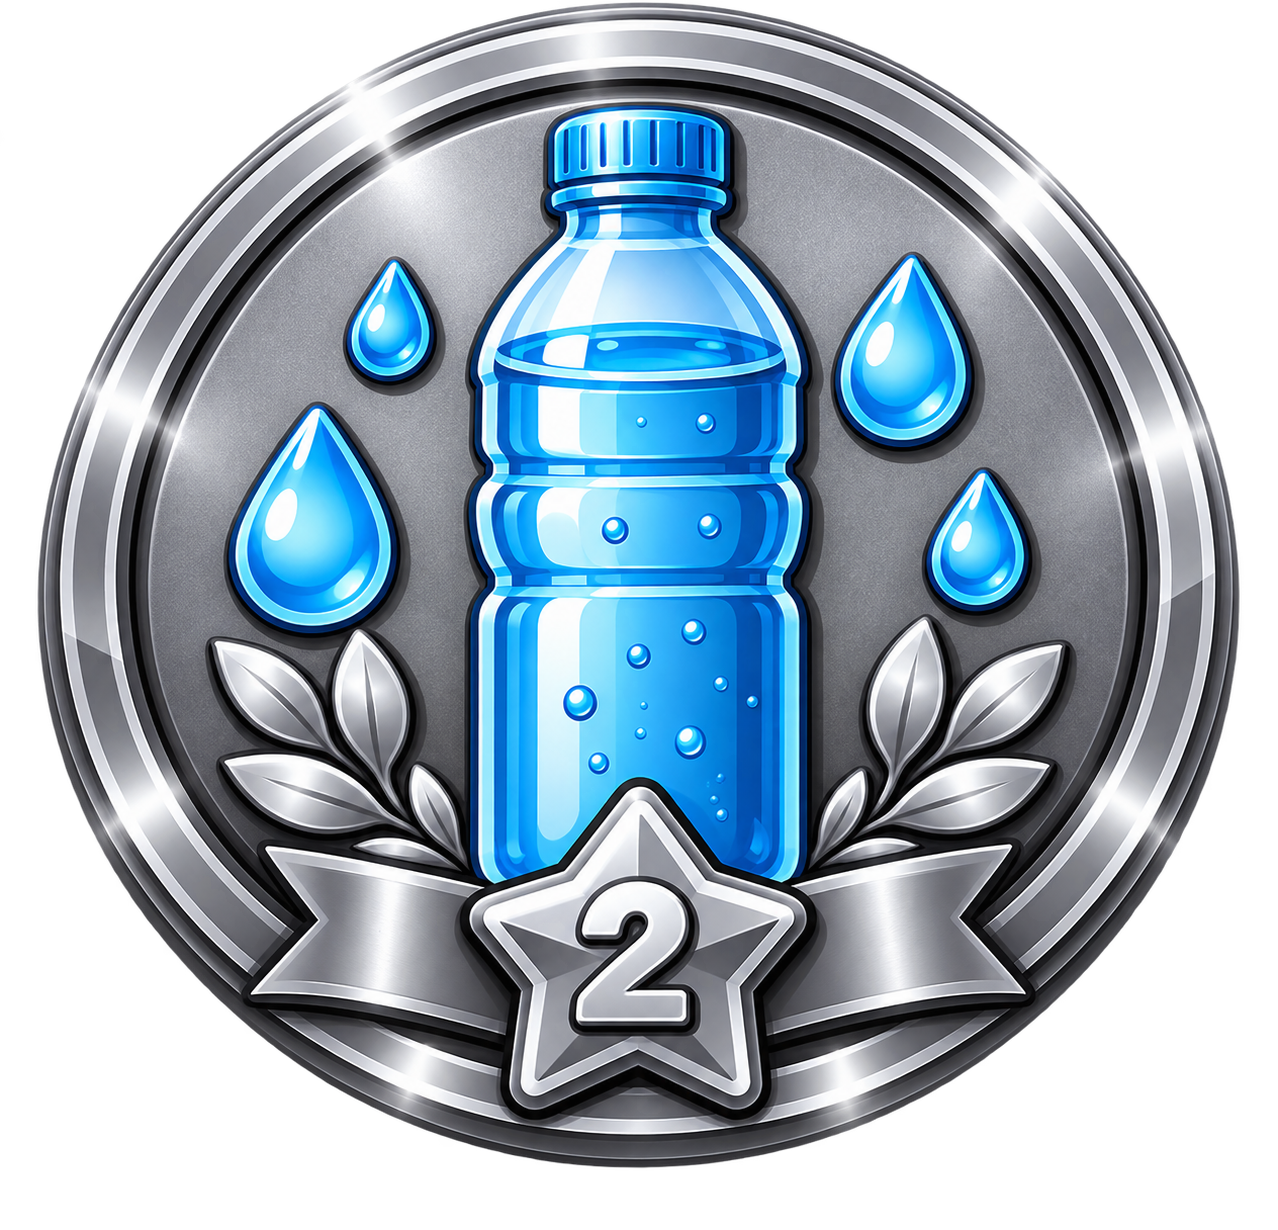
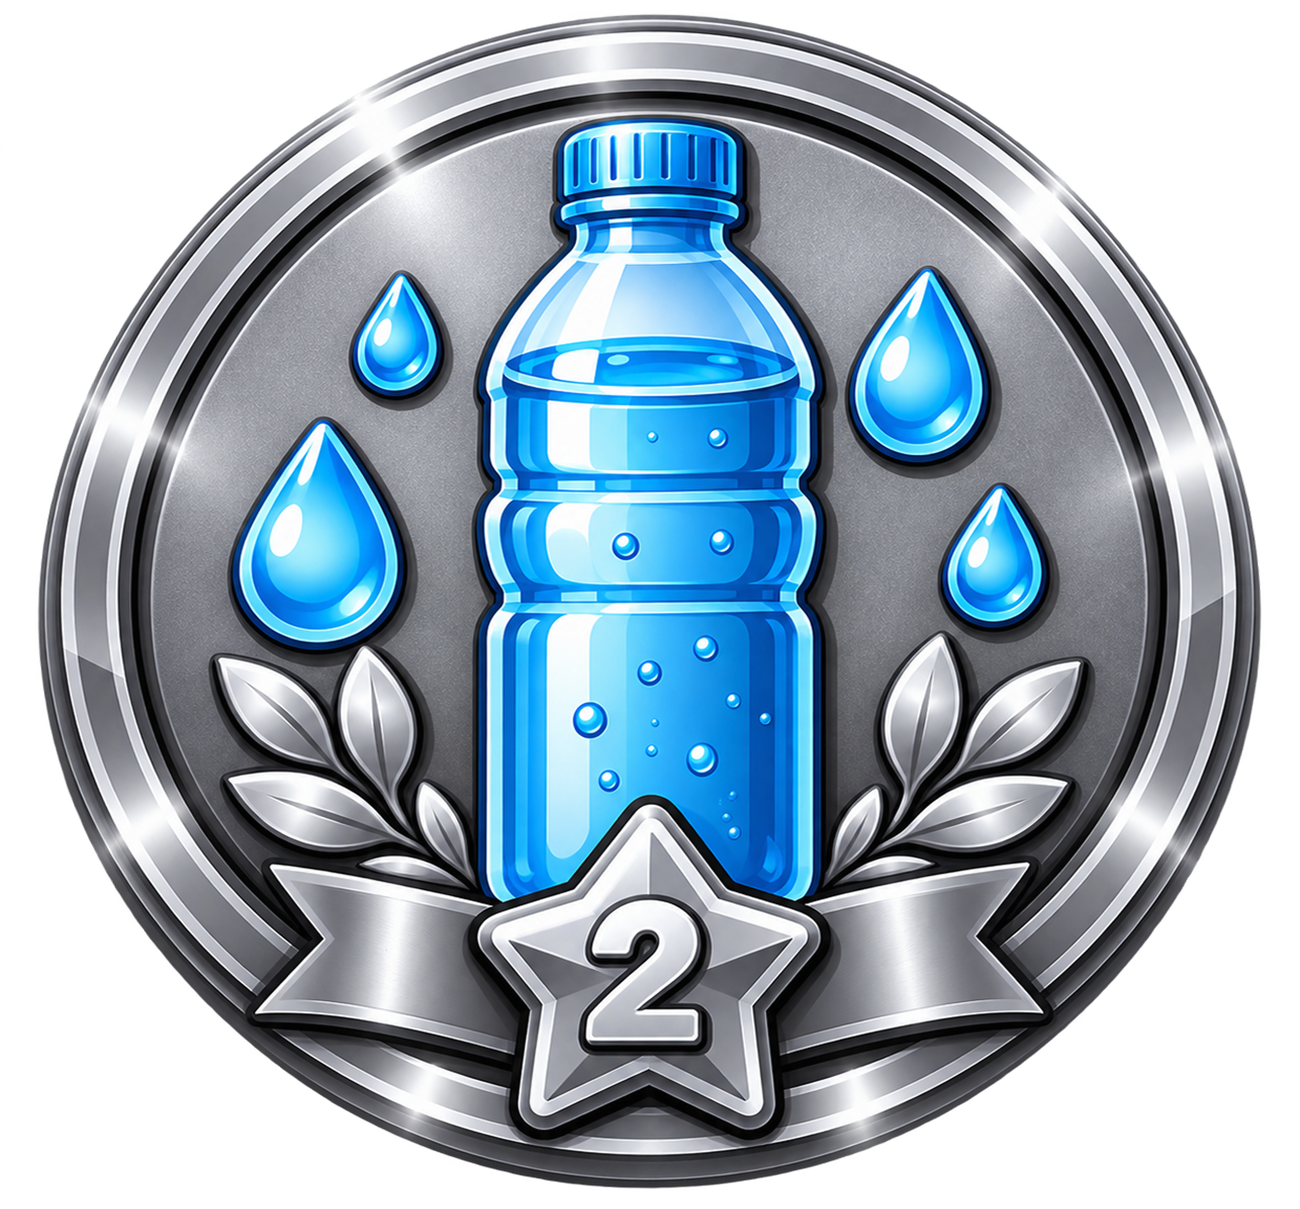
Agrego las imagenes con las dimensiones modificadas para que sean todas iguales

diff --git a/src/app/pages/mi-perfil-componente/mi-perfil-componente.html b/src/app/pages/mi-perfil-componente/mi-perfil-componente.html
@@ -214,32 +214,33 @@
 
         <div class="logrosConteiner">
 
-        @if (logrosResumen().length === 0) {
-            <div class="empty-achievements">
-                <strong>Todavía no tenés logros</strong>
-                <span>Seguí cuidando tus hábitos para desbloquearlos.</span>
-            </div>
-        }@else {
-            @for (logro of logrosResumen(); track logro.logro_id) {
-                <article class="achievement-card">
-                    <div class="achievement-image">
-                        @if (logro.nivel === "level 1") {
-                            <img src="logros/{{logro.logro_id}} bronce.png" alt="Logro Bronce" class="logro">
-                        }
-                        @if (logro.nivel === "level 2") {
-                            <img src="logros/{{logro.logro_id}} plata.png" alt="Logro Plata" class="logro">
-                        }
-                        @if (logro.nivel === "level 3") {
-                            <img src="logros/{{logro.logro_id}} oro.png" alt="Logro Oro" class="logro">
-                        }
-                    </div>
-                    <div>
-                        <h3>{{ logro.logro_id.replaceAll('_', ' ') }}</h3>
-                        <span>{{ logro.nivel }} · {{ logro.cantGanado }} {{ logro.cantGanado === 1 ? 'vez' : 'veces' }}</span>
-                    </div>
-                </article>
+            @if (logrosResumen().length === 0) {
+                <div class="empty-achievements">
+                    <strong>Todavía no tenés logros</strong>
+                    <span>Seguí cuidando tus hábitos para desbloquearlos.</span>
+                </div>
+            }@else {
+                @for (logro of logrosResumen(); track logro.logro_id) {
+                    <article class="achievement-card">
+                        <div class="achievement-image">
+                            @if (logro.nivel === "level 1") {
+                                <img src="logros/{{logro.logro_id}} bronce.png" alt="Logro Bronce" class="logro">
+                            }
+                            @if (logro.nivel === "level 2") {
+                                <img src="logros/{{logro.logro_id}} plata.png" alt="Logro Plata" class="logro">
+                            }
+                            @if (logro.nivel === "level 3") {
+                                <img src="logros/{{logro.logro_id}} oro.png" alt="Logro Oro" class="logro">
+                            }
+                        </div>
+                        <div>
+                            <h3>{{ logro.logro_id.replaceAll('_', ' ') }}</h3>
+                            <span>{{ logro.nivel }} · {{ logro.cantGanado }} {{ logro.cantGanado === 1 ? 'vez' : 'veces' }}</span>
+                        </div>
+                    </article>
+                }
             }
-        }
+            
         </div>
     </section>
 

diff --git a/src/app/pages/mi-perfil-componente/mi-perfil-componente.css b/src/app/pages/mi-perfil-componente/mi-perfil-componente.css
@@ -288,8 +288,8 @@ input:focus, select:focus {
     background: #fff8ed; 
 }
 .logro { 
-    width: 68px; 
-    height: 68px; 
+    width: 76px; 
+    height: 76px; 
     object-fit: contain; 
 }
 .achievement-card h3 { 
